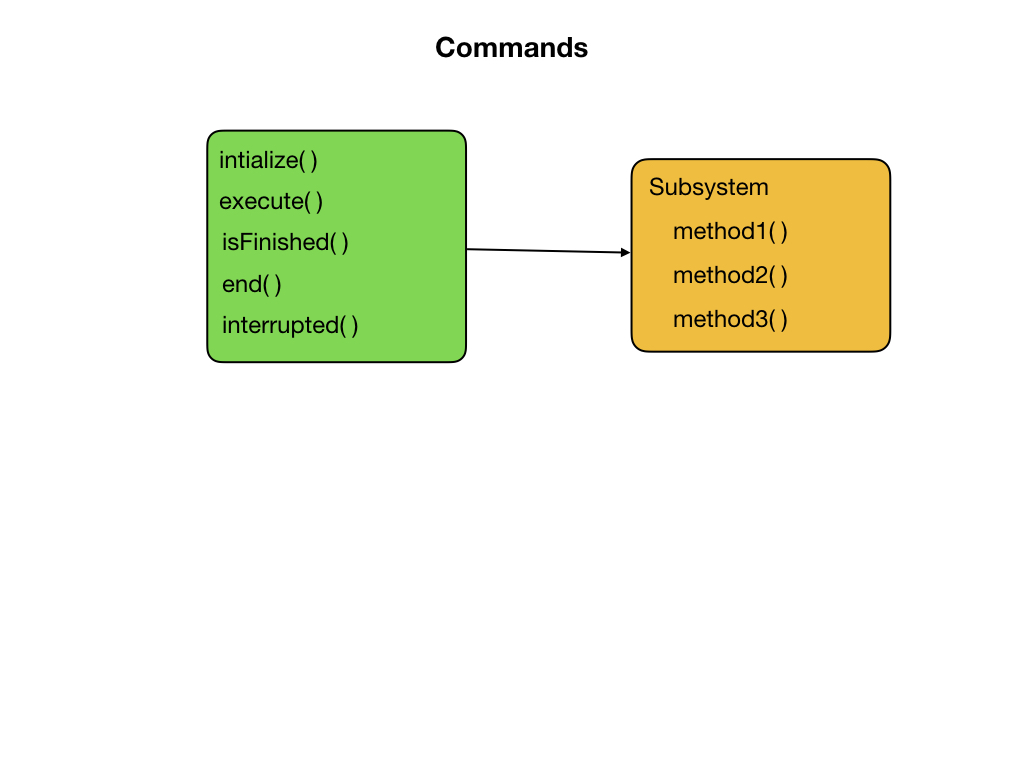
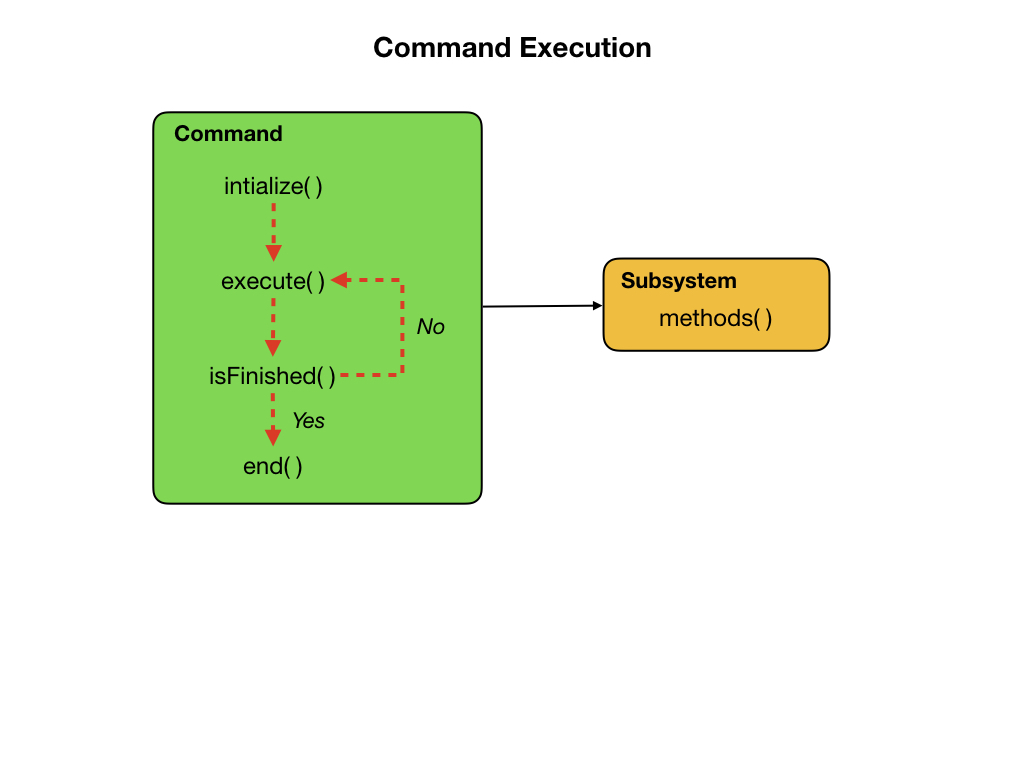
More updates

Changed region(s): [[0.125, 0.125, 0.875, 0.6562], [0.375, 0.0312, 0.625, 0.0938]]

diff --git a/Romi/romiCommands.md b/Romi/romiCommands.md
@@ -1,60 +1,12 @@
 # <a name="code"></a>Commands
 Commands define high-level robot actions or behaviors that utilize the methods defined by the subsystems. Before looking at the commands that are implemented on the Romi you should be very familiar with [Procedures](../Programming/procedures) and [State Machines](../Programming/stateMachines) from the programming sections.  You should also review the FRC Documentation on [Commands](https://docs.wpilib.org/en/latest/docs/software/commandbased/commands.html) before continuing.
 
-A command is a simple state machine that is either initializing, executing, ending, or idle. Users write code specifying which action should be taken in each state. Subsystems are used by the CommandScheduler resource management system to ensure multiple robot actions are not "fighting" over the same hardware resource. Commands that use a subsystem should include that subsystem in their `getRequirements()` method.
+A command is a simple state machine that is either *Initializing*, *Executing*, *Ending*, or *Idle*. Users write code specifying which action should be taken in each state.  Commands run when scheduled or in response to buttons being pressed on a gamepad or from [Shuffleboard](../Tools/shuffleboard). Each command has code in its `execute()` method to move it further along towards its goal and a method `isFinished()` that determines if the command has reached the goal. The `execute()` and `isFinished()` methods are called repeatedly.
 
 ![Commands](../images/Romi/Romi.015.jpeg)
 
-## The CommandScheduler
-Runs the Scheduler.  This is responsible for polling buttons, adding newly-scheduled commands, running already-scheduled commands, removing finished or interrupted commands, and running the subsystem `periodic()` methods.  This must be called from the robot's `periodic()` block in order for anything in the Command-based framework to work.
-
-For more details see [The Command Scheduler](https://docs.wpilib.org/en/latest/docs/software/commandbased/command-scheduler.html) documentation.
-
-## Default Commands
-The **setDefaultCommand( )** method sets the default Command of the subsystem. The default command will be automatically scheduled when no other commands are scheduled that require the subsystem. Default commands should generally not end on their own, i.e. their Command **isFinished()** method should always return false. Will automatically register this subsystem with the CommandScheduler
-
-## ArcadeDrive Command
-Create a new command called **ArcadeDrive**.  In the VSCode file menu right click on the **commands** folder and select "Create a new class/command".  Enter the name of the command in the box.  This will give you a template for creating your new command. 
-
-    import java.util.function.Supplier;
-
-Add the variables that will accept the parameters passed in from the game controller. The variable type is called a *Supplier*, which is an interface used for [Functional Programming Paradigm](https://en.wikipedia.org/wiki/Functional_programming).  This is a more complex programming concept that we won't cover here.
-
-    private final Supplier<Double> m_xaxisSpeedSupplier;
-    private final Supplier<Double> m_zaxisRotateSupplier;
-
-Pass the parameters to the ArcadeDrive constructor.  The completed constructor should look like this:
-
-    public ArcadeDrive(
-      Drivetrain subsystem,
-      Supplier<Double> xaxisSpeedSupplier,
-      Supplier<Double> zaxisRotateSuppplier) {
-        m_drivetrain = subsystem;
-        m_xaxisSpeedSupplier = xaxisSpeedSupplier;
-        m_zaxisRotateSupplier = zaxisRotateSuppplier;
-        addRequirements(subsystem);
-    }
-
-Update the execute() method:
-
-    public void execute() {
-      m_drivetrain.arcadeDrive(m_xaxisSpeedSupplier.get(),m_zaxisRotateSupplier.get());
-    }
-
-## Use the Joystick
-In the `RobotContainer` class create the Joystick object:
-
-    private final Joystick m_controller = new Joystick(0);
-
-Now we'll create a function in the `RobotContainer` class that we'll use the joystick to control the robot:
-
-    public Command getArcadeDriveCommand() {
-        return new ArcadeDrive(
-            m_drivetrain, () -> -m_controller.getRawAxis(1), () -> m_controller.getRawAxis(2));
-      }
-
 ## The DriveDistance Command
-Another command in the Romi example code is used to drive the robot for a specified distance.  This is where [Parameters](https://www.w3schools.com/java/java_methods_param.asp) are very useful since we can decide how far to drive when the program runs.  This command demonstrates the classic [State Machine](../Programming/stateMachines) programming paradigm where we have an **Initialization Step** `initialize()` followed the **Next Step** `execute()` and an **Input Update** that repeatedly calls `execute()` until that threshold is met `isFinished()` and transititions it to the next major state `end()`.
+Let's take a look at the *DriveDistance* command to see how this all works. This command is used to drive the robot for a specified distance.  This is where [Parameters](https://www.w3schools.com/java/java_methods_param.asp) are very useful since we can decide how far to drive when the program runs.  This command demonstrates the classic [State Machine](../Programming/stateMachines) programming paradigm where we have an **Initialization Step** `initialize()` followed the **Next Step** `execute()` and an **Input Update** that repeatedly calls `execute()` until that threshold is met `isFinished()` and transititions it to the next major state `end()`.  After this state the command becomes *Idle*.
 
         public DriveDistance(double speed, double inches, Drivetrain drive) {
             m_distance = inches;
@@ -85,6 +37,60 @@ Another command in the Romi example code is used to drive the robot for a specif
             return Math.abs(m_drive.getAverageDistanceInch()) >= m_distance;
         }
 
+
+## ArcadeDrive Command
+The *ArcadeDrive* command is a simple command that will drive the robot using  values provided by the joysticks. The values are passed in as parameters with a variable type is called a *Supplier*, which is an interface used for [Functional Programming Paradigm](https://en.wikipedia.org/wiki/Functional_programming).  This is a more complex programming concept that we won't cover here.  This parameter type needs to be imported and defined before use.
+
+    import java.util.function.Supplier;
+
+    private final Supplier<Double> m_xaxisSpeedSupplier;
+    private final Supplier<Double> m_zaxisRotateSupplier;
+
+The constructor looks like this with the values for linear and angular speed together with the Drivetrain subsystem.
+
+    public ArcadeDrive(
+      Drivetrain subsystem,
+      Supplier<Double> xaxisSpeedSupplier,
+      Supplier<Double> zaxisRotateSupplier) {
+        m_drivetrain = subsystem;
+        m_xaxisSpeedSupplier = xaxisSpeedSupplier;
+        m_zaxisRotateSupplier = zaxisRotateSuppplier;
+        addRequirements(subsystem);
+    }
+
+The `execute()` method calls the Drivetrain subsystem to activate the motors.
+
+    public void execute() {
+      m_drivetrain.arcadeDrive(m_xaxisSpeedSupplier.get(),m_zaxisRotateSupplier.get());
+    }
+
+The `isFinished()` method always returns false meaning this command never
+completes on it's own. The reason we do this is that this command will be set as the default command for the subsystem. This means that whenever the subsystem is not running another command, it will run this command. If any other command is scheduled it will interrupt this command, then return to this command when the other command completes. 
+
+    public boolean isFinished() {
+        return false;
+    }
+
+The `setDefaultCommand()` method sets the default Command of the subsystem. The default command will be automatically scheduled when no other commands are scheduled that require the subsystem.  The following statement is called in the *RobotContainer* class.
+
+    m_drivetrain.setDefaultCommand(getArcadeDriveCommand());
+
+## Use the Joystick
+The Joystick object is created in the *RobotContainer* class.
+
+    private final Joystick m_controller = new Joystick(0);
+
+A method is created in the class that uses the joystick to control the robot:
+
+    public Command getArcadeDriveCommand() {
+        return new ArcadeDrive(
+            m_drivetrain, () -> -m_controller.getRawAxis(1), () -> m_controller.getRawAxis(2));
+    }
+
+## The CommandScheduler
+Runs the Scheduler.  This is responsible for polling buttons, adding newly-scheduled commands, running already-scheduled commands, removing finished or interrupted commands, and running the subsystem `periodic()` methods.  This must be called from the robot's `periodic()` block in order for anything in the Command-based framework to work.
+
+For more details see [The Command Scheduler](https://docs.wpilib.org/en/latest/docs/software/commandbased/command-scheduler.html) documentation.
 
 ## References
 

diff --git a/Romi/romiStructure.md b/Romi/romiStructure.md
@@ -1,7 +1,7 @@
 # <a name="code"></a>Basic Robot Structure
 By this point you should have your development environment setup and have ensured that you can communicate with the Romi robot by running the [example program](romiExample).  It's now time to get down the serious work of learning how to program the robot.  We're going to start with an [Introduction to Programming](../Programming/introProgramming) where you'll get a high level overview of programming concepts.  Then we'll learn a little bit about [Robot Systems](../Concepts/RobotSystem/intro) so as you can understand what it is that you're programming. This will prepare you to understand how the code of an FRC robot is constructed.  
 
-There are four basic components that make up a program for an FRC robot.  Each component is kept in a separate java file that are called `Main.java, Robot.java, RobotContainer.java`, and `Constants.java`.  
+Programs based on the WPILib library are organized around two fundamental concepts: **Subsystems** and **Commands**. Subsystems and Commands run within the context of an FRC Robot program that is built using four basic components.  Each component is kept in separate java files called `Main.java, Robot.java, RobotContainer.java`, and `Constants.java`.  
 
 ![Robot Structure](../images/Romi/Romi.010.jpeg)
 
@@ -23,11 +23,14 @@ The `RobotContainer.java` file is where the main structure of the robot is built
 
 ## The Constants File
 
-The `Constants.java` file provides a central location for defining constants.  Constants are values assigned to variables that do not change throughout the execution of the program.  There are a few values in the *romiReference* program that really should be in the Constants file, so let's put them there now.
+The `Constants.java` file provides a central location for defining constants.  Constants are values assigned to variables that do not change throughout the execution of the program.  
 
-...code
+## Lab - Robot Structure.
+There are a few values in the *romiReference* program that really should be in the Constants file.  Move the two constants `kWheelDiameterInch` and `kCountsPerRevolution` that are in the DriveTrain class into the Constants.java file. 
 
-The *Constants* file can end up getting very crowded so it's a good idea to group the constants under the appropriate subsystem as much as possible.  To do that we can create a subclass within the Constants file.  You must also change the constant to `public`.
+### Quiz
+
+[Solution](solutionRobotStructure)
 
 ## References
 - FRC Documentation - [Structuring a Command-Based Robot Project](https://docs.wpilib.org/en/latest/docs/software/commandbased/structuring-command-based-project.html?highlight=RobotContainer)

diff --git a/index.md b/index.md
@@ -1,15 +1,19 @@
 # Robotics Programmer Training
 
-This site hosts training material for teams involved in the First Robotics Competition (FRC). The aim is to give student a good grounding in both robotics and programming.  The outline of the course is based on the book [Robotics, Vision and Control](https://petercorke.com/rvc/home/) by Peter Corke, together with a lot of references to the documentation shown on the [FIRST Robotic Competition](https://docs.wpilib.org/en/latest/index.html) Website.  The purpose of these pages is to take you step-by-step through the process of becoming an FRC programmer.  This will prepare you to write code for the competition robot that your mechanical and electrical engineering teams will build. The FRC documentation is very comprehensive so there will be many links to it at the appropriate points.  
+This site hosts training resources for teams involved in the First Robotics Competition (FRC). The aim is to give student a good grounding in both robotics and programming.  The outline of the course is based on the book [Robotics, Vision and Control](https://petercorke.com/rvc/home/) by Peter Corke, together with a lot of references to the documentation shown on the [FIRST Robotic Competition](https://docs.wpilib.org/en/latest/index.html) Website.  The purpose of the training is to take you step-by-step through the process of becoming an FRC programmer.  This will prepare you to write code for the competition robot that your mechanical and electrical engineering teams will build. The FRC documentation is very comprehensive so there will be many links to it at the appropriate points.  
 
 The subjects that will be covered in this course will include:
 
 ![Course Overview](images/FRCConcepts/FRCConcepts.016.jpeg)
 
+The main learning path is the **Romi Training Robot**.  From there we'll link to other parts of the training resources.
+
 So let's get started.
 
-- Development/Training Tools 
+- Training Tools 
   - [Romi Training Robot](Romi/romi.md)
+
+- Development Tools 
   - [VSCode](Tools/VSCode.md)
   - [Git](Tools/git.md) 
   - [Robot Simulator](Tools/simulator.md)

diff --git a/Romi/solutionRobotStructure.md b/Romi/solutionRobotStructure.md
@@ -1,0 +1,16 @@
+## Robot Structure Solutions
+The *Constants* file can end up getting very crowded so it's a good idea to group the constants under the appropriate subsystem as much as possible.  To do that we can create a subclass within the Constants file.  In our case, we've called this *DriveConstants*.   Update the Constants file with the following code.  You can cut and paste the two lines from the Drivetrain class.  You must also change the constant from `private` to `public`. 
+
+    public final class Constants {
+        public final class DriveConstants {
+            public static final double kCountsPerRevolution = 1440.0;
+            public static final double kWheelDiameterInch = 2.75591; // 70 mm
+        }
+    }    
+
+Now go to the Drivetrain class and comment out the two lines that you just copied.  Reference the new constants in the `setDistancePerPulse` method in the Drivetrain constructor.
+
+    m_leftEncoder.setDistancePerPulse((Math.PI * Constants.DriveConstants.kWheelDiameterInch) / Constants.DriveConstants.kCountsPerRevolution);
+        m_rightEncoder.setDistancePerPulse((Math.PI * Constants.DriveConstants.kWheelDiameterInch) / Constants.DriveConstants.kCountsPerRevolution);
+    
+### Quiz Answers

diff --git a/Romi/romiSubsystems.md b/Romi/romiSubsystems.md
@@ -1,4 +1,5 @@
 # <a name="code"></a>Subsystems
+
 Subsystems are the basic units of functionally for our robot, such as drive trains and mechanical arms.  They encapsulate low-level hardware objects (motor controllers, sensors, etc) and provide methods that can be used by Commands.  We represent subsystems in code by using [Objects](../Programming/objects). Objects are composed of [Data Structures](../Programming/dataStructures) and [Procedures](../Programming/procedures), as explained in [Introduction to Programming](../Programming/introProgramming). You should learn those concepts before we look at the subsystems that are on the Romi.  
 
  More information can be found in the [Subsystems](https://docs.wpilib.org/en/latest/docs/software/commandbased/subsystems.html) section of the FRC Documentation.  

diff --git a/Concepts/geometry.md b/Concepts/geometry.md
@@ -60,6 +60,8 @@ Each Yaw, Pitch, Roll maneuver can be represented by a rotation matrix that uses
 
 - FRC Documentation - [A Video Walkthrough of Model Based Validation of Autonomous in FRC](https://docs.wpilib.org/en/stable/docs/software/advanced-controls/video-walkthrough.html)
 
+- Angela Sodemann - [Rotation Matrix Video](https://www.youtube.com/watch?v=lVjFhNv2N8o)
+
 <h3><span style="float:left">
 <a href="RobotSystem/intro">Previous</a></span>
 <span style="float:right">

diff --git a/Vision/introVision.md b/Vision/introVision.md
@@ -26,6 +26,8 @@ On the FRC game field they will use [Retroflective](https://docs.wpilib.org/en/s
 
 - QUT Robot Academy [Robot Vision](https://robotacademy.net.au/masterclass/robotic-vision/)
 
+- Peter Corke Lecture - [Introduction to Robot Vision](https://www.youtube.com/watch?v=N_a6IP6KUSE&list=PL1pxneANaikCO1-Z0XTaljLR3SE8tgRXY)
+
 <h3><span style="float:left">
 <a href="../index">Home</a></span>
 <span style="float:right">
